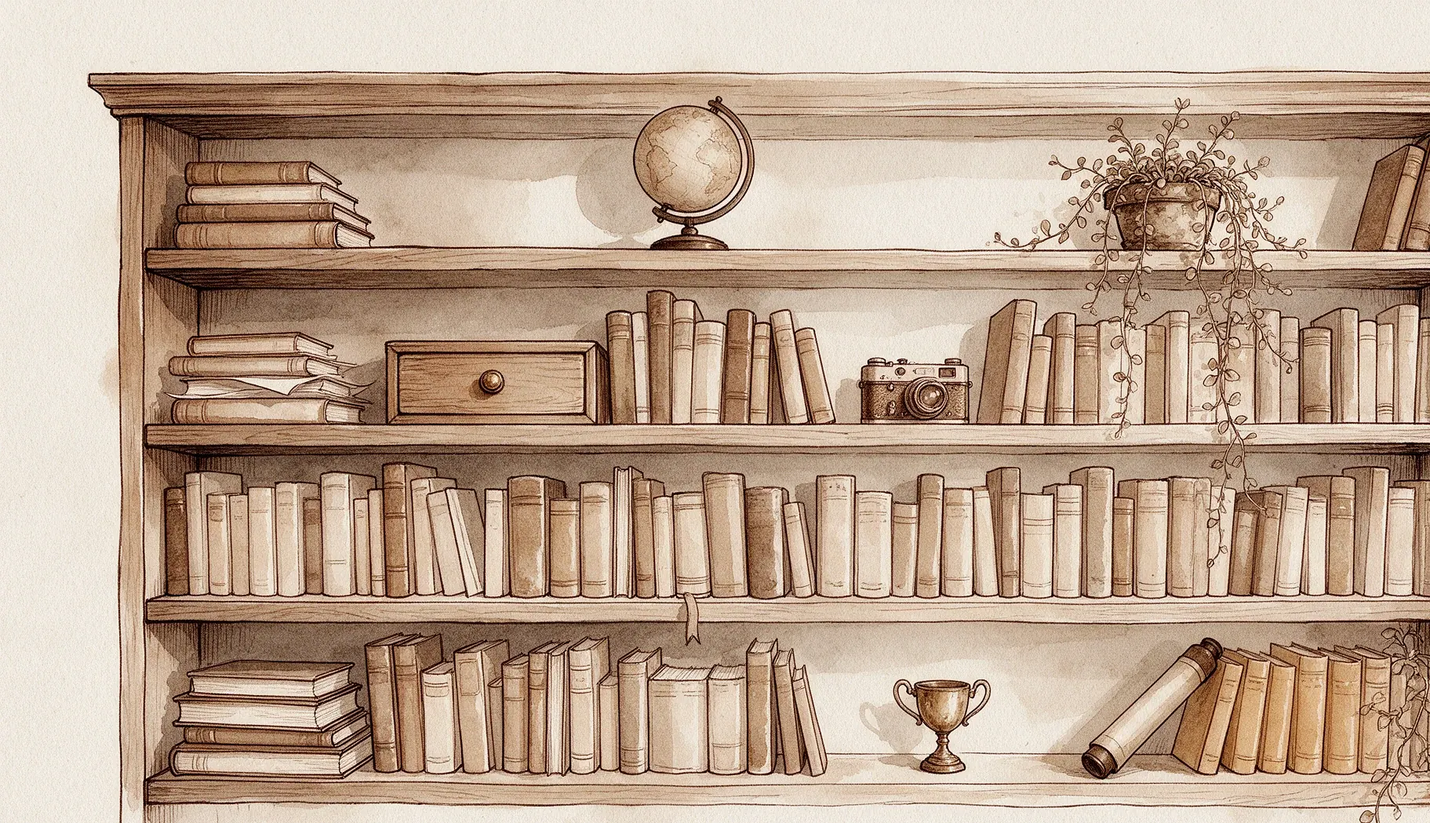
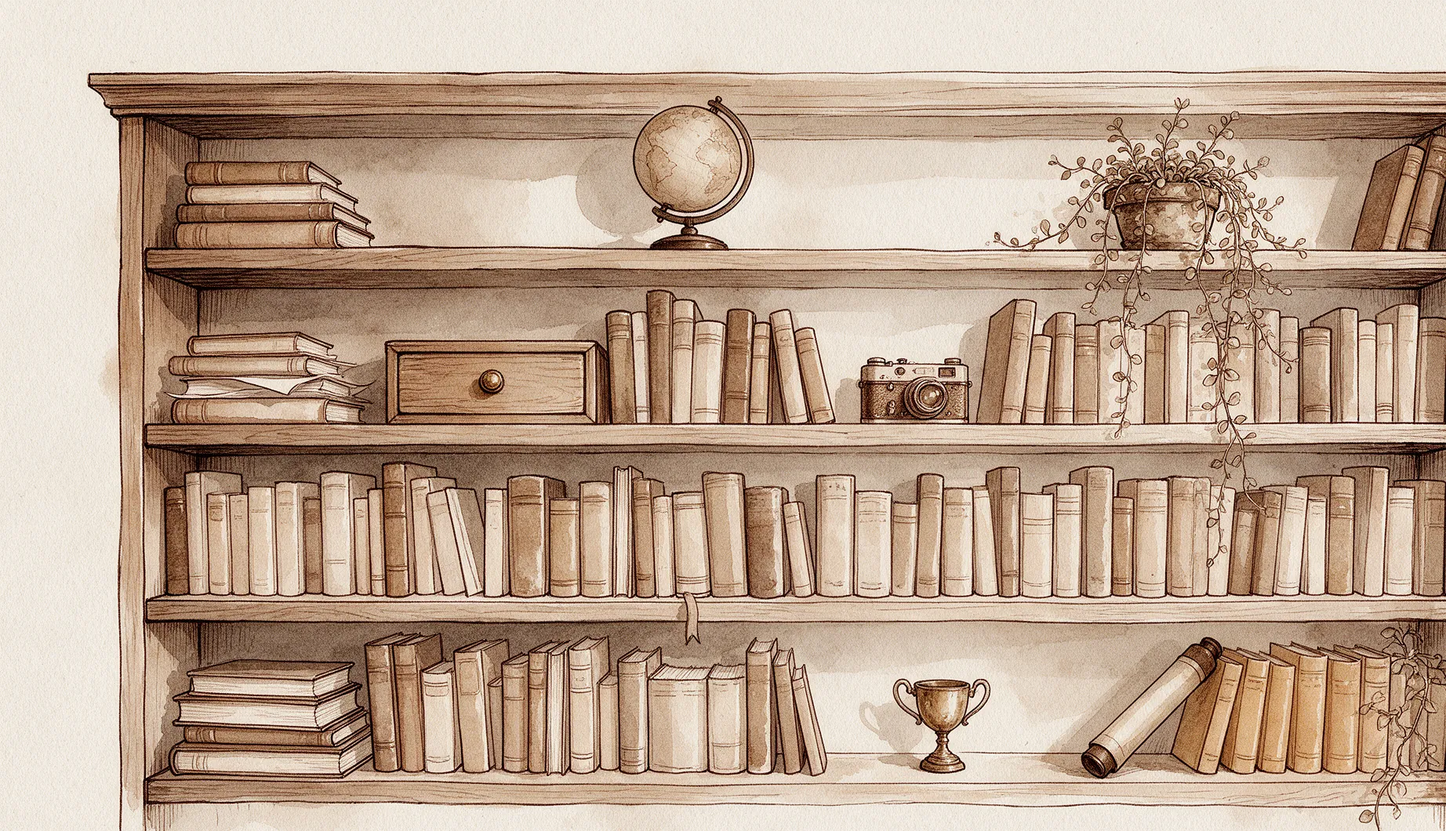
fix: 工作室回归完整淡彩整图，contain 居中防变形，热区对齐图框

diff --git a/src/pages/Room.vue b/src/pages/Room.vue
@@ -17,7 +17,7 @@ const activeScene = computed(() => {
 })
 const scene = computed(() => scenes.value.find((s) => s.id === activeScene.value))
 const hotspots = computed(() => scene.value?.hotspots ?? [])
-const layers = computed(() => scene.value?.layers ?? [])
+const layers = computed(() => [])
 const sceneImage = computed(() => (scene.value?.image ? baseUrl + scene.value.image : ''))
 
 const selectedId = ref(null)
@@ -142,7 +142,7 @@ function onMove(e) {
   const r = el.getBoundingClientRect()
   const nx = ((e.clientX - r.left) / r.width - 0.5) * 2
   const ny = ((e.clientY - r.top) / r.height - 0.5) * 2
-  parallax.value = { x: nx * 14, y: ny * 9 }
+  parallax.value = { x: nx * 6, y: ny * 4 }
 }
 
 function onLeave() {
@@ -206,7 +206,7 @@ setDescription('走进纸感工作室：点一点屋里的东西。')
     >
       <div
         class="room__parallax"
-        :style="{ transform: `translate3d(${parallax.x}px, ${parallax.y}px, 0) scale(1.03)` }"
+        :style="{ transform: `translate3d(${parallax.x}px, ${parallax.y}px, 0)` }"
       >
         <Transition name="room-swap" mode="out-in">
           <img
@@ -220,75 +220,35 @@ setDescription('走进纸感工作室：点一点屋里的东西。')
           />
         </Transition>
 
-        <!-- 分层物件：本体图，hover 浮起发光 -->
+        <!-- 热区与图同容器，百分比对齐画面 -->
+        <div class="room__veil" :class="{ 'room__veil--on': !!(hoverId || selectedId) }" aria-hidden="true" :style="veilStyle" />
         <button
-          v-for="l in layers"
-          :key="`${activeScene}-layer-${l.id}`"
+          v-for="h in hotspots"
+          :key="`${activeScene}-hit-${h.id}`"
           type="button"
-          class="sprite"
+          class="hit"
           :class="{
-            'sprite--hover': hoverId === l.id,
-            'sprite--on': selectedId === l.id,
-            'sprite--dim': (hoverId || selectedId) && hoverId !== l.id && selectedId !== l.id,
-            'sprite--awake': isOn(l),
+            'hit--hover': hoverId === h.id,
+            'hit--on': selectedId === h.id,
+            'hit--dim': (hoverId || selectedId) && hoverId !== h.id && selectedId !== h.id,
+            'hit--awake': isOn(h),
           }"
           :style="{
-            left: l.x + '%',
-            top: l.y + '%',
-            width: l.w + '%',
-            zIndex: l.z || 4,
+            left: h.x + '%',
+            top: h.y + '%',
+            width: h.w + '%',
+            height: h.h + '%',
           }"
-          :aria-label="l.label"
-          :aria-pressed="selectedId === l.id"
-          @click.stop="activate(l)"
-          @mouseenter="hoverId = l.id"
+          :aria-label="h.label"
+          :aria-pressed="selectedId === h.id"
+          @click.stop="activate(h)"
+          @mouseenter="hoverId = h.id"
           @mouseleave="hoverId = null"
         >
-          <img
-            class="sprite__img"
-            :src="baseUrl + l.src"
-            :alt="l.label"
-            decoding="async"
-            draggable="false"
-          />
+          <span class="hit__aura" aria-hidden="true" />
+          <span class="hit__core" aria-hidden="true" />
         </button>
       </div>
-
-      <!-- 聚焦压暗：无矩形框 -->
-      <div
-        class="room__veil"
-        :class="{ 'room__veil--on': !!(hoverId || selectedId) }"
-        aria-hidden="true"
-        :style="veilStyle"
-      />
-
-      <!-- 扁平热区（书架/窗等背景层）：中心柔光，无矩形 -->
-      <button
-        v-for="h in hotspots"
-        :key="`${activeScene}-hit-${h.id}`"
-        type="button"
-        class="hit"
-        :class="{
-          'hit--hover': hoverId === h.id,
-          'hit--on': selectedId === h.id,
-          'hit--dim': (hoverId || selectedId) && hoverId !== h.id && selectedId !== h.id,
-          'hit--awake': isOn(h),
-        }"
-        :style="{
-          left: h.x + '%',
-          top: h.y + '%',
-          width: h.w + '%',
-          height: h.h + '%',
-        }"
-        :aria-label="h.label"
-        :aria-pressed="selectedId === h.id"
-        @click.stop="activate(h)"
-        @mouseenter="hoverId = h.id"
-        @mouseleave="hoverId = null"
-      >
-        <span class="hit__aura" aria-hidden="true" />
-        <span class="hit__core" aria-hidden="true" />
-      </button>
 
       <!-- 选中浮卡：贴在房间上，而不是侧栏 -->
       <Transition name="room-card">
@@ -433,24 +393,37 @@ setDescription('走进纸感工作室：点一点屋里的东西。')
 .room__stage {
   position: relative;
   flex: 1;
-  min-height: calc(100dvh - 140px);
+  min-height: calc(100dvh - 132px);
+  display: flex;
+  align-items: center;
+  justify-content: center;
   overflow: hidden;
   cursor: default;
-  background: #ebe8df;
+  /* 纸感衬底，图按 contain 居中，绝不拉伸变形 */
+  background:
+    radial-gradient(ellipse at 50% 40%, #f7f2ea 0%, #ebe6dc 55%, #e2dcd0 100%);
 }
 .room__parallax {
-  position: absolute;
-  inset: -18px;
-  transition: transform 0.45s cubic-bezier(0.22, 1, 0.36, 1);
+  position: relative;
+  width: min(100%, calc((100dvh - 132px) * 1.74));
+  max-width: 100%;
+  aspect-ratio: 1844 / 1060;
+  transition: transform 0.5s cubic-bezier(0.22, 1, 0.36, 1);
   will-change: transform;
+  border-radius: 4px;
+  overflow: hidden;
+  box-shadow:
+    0 1px 0 rgba(255, 255, 255, 0.5) inset,
+    0 24px 60px rgba(70, 50, 30, 0.12);
 }
 .room__art {
   width: 100%;
   height: 100%;
-  object-fit: cover;
-  object-position: center center;
+  object-fit: contain;
+  object-position: center;
   user-select: none;
   -webkit-user-drag: none;
+  background: #f3eee4;
 }
 .room-swap-enter-active,
 .room-swap-leave-active {
@@ -525,20 +498,20 @@ setDescription('走进纸感工作室：点一点屋里的东西。')
   border-radius: 4px;
 }
 
-/* 聚焦压暗层：径向镂空，让物件像被灯打亮，而不是画方框 */
+/* 聚焦压暗层：径向镂空，柔光聚焦，无方框 */
 .room__veil {
   position: absolute;
   inset: 0;
   z-index: 1;
   pointer-events: none;
   opacity: 0;
-  transition: opacity 0.35s var(--ease-standard);
+  transition: opacity 0.4s var(--ease-standard);
   background: radial-gradient(
-    ellipse var(--vr, 28%) var(--vr, 28%) at var(--vx, 50%) var(--vy, 50%),
+    ellipse var(--vr, 26%) var(--vr, 26%) at var(--vx, 50%) var(--vy, 50%),
     transparent 0%,
-    transparent 42%,
-    rgba(43, 32, 22, 0.18) 68%,
-    rgba(43, 32, 22, 0.38) 100%
+    transparent 40%,
+    rgba(52, 38, 26, 0.14) 62%,
+    rgba(52, 38, 26, 0.32) 100%
   );
 }
 .room__veil--on {
